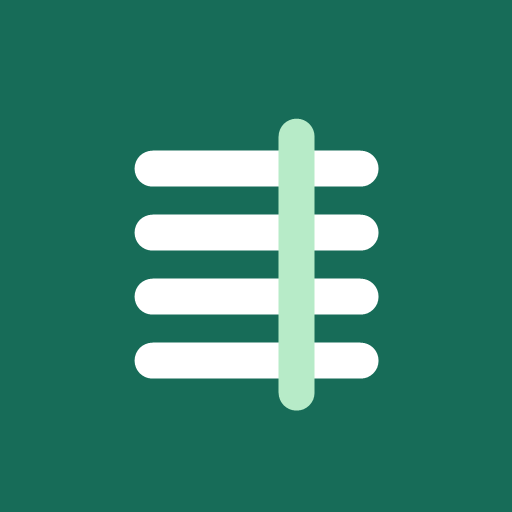
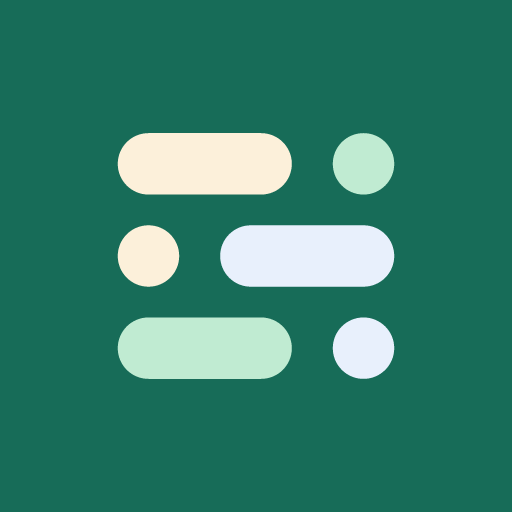
aaa
aaaaaa

Changed region(s): [[0.2188, 0.2188, 0.7812, 0.8125]]

diff --git a/src/app.js b/src/app.js
@@ -141,7 +141,7 @@ function shell() {
   const team = currentTeam(), member = currentMember(team);
   const nav = (mobile = false) => [['schedule','calendar','Schema'],...(hasAdminRole() ? [['admin','settings','Hantera']] : [])].map(([view,ico,text]) => `<button class="nav-item ${ui.view === view ? 'active' : ''}" data-action="view" data-view="${view}">${icon(ico)}<span>${text}</span>${!mobile && ui.view === view ? '<span class="nav-dot"></span>' : ''}</button>`).join('');
   $('#app').innerHTML = `<div class="app-shell">
-    <aside class="sidebar"><a class="brand" href="./" aria-label="RSSB startsida"><img class="brand-mark" src="./assets/favicon.svg?v=2" width="38" height="38" alt="">RSSB</a><div class="workspace-label">DIN ARBETSPLATS</div><nav aria-label="Huvudnavigation">${nav()}</nav>${workspace.mode === 'cloud' ? `<div class="sidebar-bottom"><button class="icon-btn" data-action="logout" aria-label="Logga ut">${icon('logout')}</button></div>` : ''}</aside>
+    <aside class="sidebar"><a class="brand" href="./" aria-label="Skooda startsida"><img class="brand-mark" src="./assets/favicon.svg?v=3" width="38" height="38" alt="">Skooda</a><div class="workspace-label">DIN ARBETSPLATS</div><nav aria-label="Huvudnavigation">${nav()}</nav>${workspace.mode === 'cloud' ? `<div class="sidebar-bottom"><button class="icon-btn" data-action="logout" aria-label="Logga ut">${icon('logout')}</button></div>` : ''}</aside>
     <div class="main-shell">
     <main id="content" tabindex="-1">${ui.view==='admin' ? adminView() : team ? scheduleView() : emptyWorkspace()}</main>
     <footer class="page-footer"><span></span><span></span></footer>
@@ -1349,7 +1349,7 @@ function deleteTeamModal() {
 
 function download(content,type,name) {const blob=new Blob([content],{type}),url=URL.createObjectURL(blob),a=document.createElement('a');a.href=url;a.download=name;a.click();setTimeout(()=>URL.revokeObjectURL(url),1000);}
 function renderLogin(error='') {
-  $('#app').innerHTML=`<main class="login-page"><a class="brand" href="./"><img class="brand-mark" src="./assets/favicon.svg?v=2" width="38" height="38" alt="">RSSB</a><section class="login-card"><h1>Ditt nästa pass<br>börjar här.</h1><p>Logga in för att se ditt schema och vilka du ska arbeta med.</p><form id="login-form"><label>E-post<input name="email" type="email" autocomplete="username" required placeholder="du@exempel.se"></label><label>Lösenord<input name="password" type="password" autocomplete="current-password" required minlength="6"></label><p class="form-error" role="alert">${esc(error)}</p><button class="primary-btn" type="submit">Logga in ${icon('arrow')}</button></form><small>Din administratör skapar ditt konto. Kontakta administratören om du behöver åtkomst eller ett nytt lösenord.</small></section><p class="login-caption">Ett tydligt schema. En lugnare vecka.</p></main>`;
+  $('#app').innerHTML=`<main class="login-page"><a class="brand" href="./"><img class="brand-mark" src="./assets/favicon.svg?v=3" width="38" height="38" alt="">Skooda</a><section class="login-card"><h1>Ditt nästa pass<br>börjar här.</h1><p>Logga in för att se ditt schema och vilka du ska arbeta med.</p><form id="login-form"><label>E-post<input name="email" type="email" autocomplete="username" required placeholder="du@exempel.se"></label><label>Lösenord<input name="password" type="password" autocomplete="current-password" required minlength="6"></label><p class="form-error" role="alert">${esc(error)}</p><button class="primary-btn" type="submit">Logga in ${icon('arrow')}</button></form><small>Din administratör skapar ditt konto. Kontakta administratören om du behöver åtkomst eller ett nytt lösenord.</small></section><p class="login-caption">Ett tydligt schema. En lugnare vecka.</p></main>`;
   $('#login-form').onsubmit=async e=>{e.preventDefault();e.submitter.disabled=true;const f=new FormData(e.target);try{workspace=await store.login(f.get('email'),f.get('password'));shell();}catch(err){renderLogin(err.message);}};
 }
 
@@ -1616,7 +1616,7 @@ async function handleAction(button) {
     case 'settings':if(admin())teamSettings();break;
     case 'delete-team':if(admin())deleteTeamModal();break;
     case 'edit-schedule':if(admin()){ui.editingSchedule=true;ui.view='schedule';shell();}break;
-    case 'export':if(admin())download(JSON.stringify(workspace.working,null,2),'application/json',`rssb-backup-${today()}.json`);break;
+    case 'export':if(admin())download(JSON.stringify(workspace.working,null,2),'application/json',`skooda-backup-${today()}.json`);break;
     case 'sync-project':
       if(admin()&&!ui.busy){ui.busy=true;try{workspace=await store.syncProject();shell();toast(workspace.fileSync.message,workspace.fileSync.state==='browser');}finally{ui.busy=false;}}
       break;
@@ -1745,7 +1745,7 @@ document.addEventListener('change',async e=>{
     else if(target.id==='jump-date'){if(target.value){ui.date=target.value;shell();scrollToDate(ui.date,true);}}
     else if(target.classList.contains('rotation-cell')&&admin()){const next=copy(),team=next.teams.find(t=>t.id===workingTeam().id);editingVersion(team).rotation[Number(target.dataset.row)][Number(target.dataset.day)]=target.value;await save(next,'Passet har uppdaterats');}
     else if(target.classList.contains('position-select')&&admin()){const next=copy(),team=next.teams.find(t=>t.id===workingTeam().id);if(Number(target.value))editingVersion(team).positions[target.dataset.member]=Number(target.value);else delete editingVersion(team).positions[target.dataset.member];await save(next,'Startpositionen har uppdaterats');}
-    else if(target.id==='import-file'&&admin()&&target.files[0]){let state;try{state=JSON.parse(await target.files[0].text());}catch{throw new Error('Filen kunde inte läsas. Välj en giltig säkerhetskopia från RSSB.');}const errors=model.validateState(state);if(errors.length)throw new Error(errors[0]);modal('Ersätta schemat?','Säkerhetskopian ersätter det aktuella schemat och publiceras direkt när du bekräftar.',`<p>${state.teams.length} team i säkerhetskopian.</p>`,async()=>{await save(state,'Säkerhetskopian har importerats');ui.teamId=undefined;editingVersionId=undefined;shell();},{submit:'Importera schema'});}
+    else if(target.id==='import-file'&&admin()&&target.files[0]){let state;try{state=JSON.parse(await target.files[0].text());}catch{throw new Error('Filen kunde inte läsas. Välj en giltig säkerhetskopia från Skooda.');}const errors=model.validateState(state);if(errors.length)throw new Error(errors[0]);modal('Ersätta schemat?','Säkerhetskopian ersätter det aktuella schemat och publiceras direkt när du bekräftar.',`<p>${state.teams.length} team i säkerhetskopian.</p>`,async()=>{await save(state,'Säkerhetskopian har importerats');ui.teamId=undefined;editingVersionId=undefined;shell();},{submit:'Importera schema'});}
   }catch(error){toast(error.message,true);shell();}
 });
 $('#modal').addEventListener('click',e=>{if(e.target===$('#modal')){const rect=e.target.getBoundingClientRect();if(e.clientX<rect.left||e.clientX>rect.right||e.clientY<rect.top||e.clientY>rect.bottom)requestModalClose();}});

diff --git a/src/install.js b/src/install.js
@@ -11,7 +11,7 @@ const ios = /iPad|iPhone|iPod/.test(navigator.userAgent) ||
   (navigator.platform === 'MacIntel' && navigator.maxTouchPoints > 1);
 const android = /Android/i.test(navigator.userAgent);
 const samsung = /SamsungBrowser/i.test(navigator.userAgent);
-const dismissalKey = `rssb-install-dismissed:${new URL('../', import.meta.url).pathname}`;
+const dismissalKey = `skooda-install-dismissed:${new URL('../', import.meta.url).pathname}`;
 const week = 7 * 24 * 60 * 60 * 1000;
 let pendingPrompt;
 let installed = false;
@@ -30,7 +30,7 @@ function rememberDismissal() {
 function update() {
   entry.hidden = standalone() || !mobile.matches || !(ios || android || pendingPrompt);
   document.querySelector('#install-open').textContent = installationRequested
-    ? 'Installationshjälp för RSSB' : 'Lägg till RSSB på hemskärmen';
+    ? 'Installationshjälp för Skooda' : 'Lägg till Skooda på hemskärmen';
   confirm.textContent = pendingPrompt ? 'Installera appen' : 'Visa hur du installerar';
   if (standalone() && dialog.open) dialog.close();
 }
@@ -52,7 +52,7 @@ function showRequested() {
   guide.hidden = true;
   confirm.hidden = true;
   help.hidden = false;
-  status.textContent = 'Installationen har begärts. Följ statusen i telefonens aviseringar. När den är klar hittar du RSSB på hemskärmen eller i applistan. Om ingen ikon dyker upp eller installationen misslyckas, tryck på Problem med installationen?';
+  status.textContent = 'Installationen har begärts. Följ statusen i telefonens aviseringar. När den är klar hittar du Skooda på hemskärmen eller i applistan. Om ingen ikon dyker upp eller installationen misslyckas, tryck på Problem med installationen?';
   dismiss.textContent = 'Fortsätt till schemat';
   update();
 }
@@ -60,12 +60,12 @@ function showGuide(troubleshooting = false) {
   guide.innerHTML = ios
     ? '<ol><li>Öppna sidan i <strong>Safari</strong> om den visas i en annan app.</li><li>Tryck på <strong>Dela</strong> (fyrkanten med pil uppåt). Den kan ligga under menyn med tre punkter.</li><li>Välj <strong>Lägg till på hemskärmen</strong>. Välj Visa mer om det behövs.</li><li>Låt <strong>Öppna som webbapp</strong> vara aktiverat om valet visas, och tryck på <strong>Lägg till</strong>.</li></ol>'
     : samsung
-      ? '<ol><li>I <strong>Samsung Internet</strong>: tryck på installationsikonen i adressfältet om den visas, eller öppna menyn <strong>☰</strong> och välj <strong>Lägg till sida i → Hemskärm</strong> om valet finns.</li><li>Bekräfta och följ statusen i telefonens aviseringar. Öppna sedan <strong>RSSB</strong> från hemskärmen eller applistan.</li><li>Om installationen misslyckas: kopiera sidans adress, öppna samma adress i <strong>Google Chrome</strong> och välj <strong>⋮ → Lägg till på startskärmen → Installera</strong>. Menyn kan också heta <strong>Installera appen</strong>.</li></ol>'
-      : '<ol><li>Öppna sidans adress direkt i <strong>Google Chrome</strong> om sidan visas inne i kamera- eller QR-appen.</li><li>Öppna webbläsarens meny <strong>⋮</strong>.</li><li>Välj <strong>Installera appen</strong> eller <strong>Lägg till på startskärmen</strong> och sedan Installera om valet visas.</li><li>Följ statusen i telefonens aviseringar. Öppna sedan <strong>RSSB</strong> från hemskärmen eller applistan.</li></ol>';
+      ? '<ol><li>I <strong>Samsung Internet</strong>: tryck på installationsikonen i adressfältet om den visas, eller öppna menyn <strong>☰</strong> och välj <strong>Lägg till sida i → Hemskärm</strong> om valet finns.</li><li>Bekräfta och följ statusen i telefonens aviseringar. Öppna sedan <strong>Skooda</strong> från hemskärmen eller applistan.</li><li>Om installationen misslyckas: kopiera sidans adress, öppna samma adress i <strong>Google Chrome</strong> och välj <strong>⋮ → Lägg till på startskärmen → Installera</strong>. Menyn kan också heta <strong>Installera appen</strong>.</li></ol>'
+      : '<ol><li>Öppna sidans adress direkt i <strong>Google Chrome</strong> om sidan visas inne i kamera- eller QR-appen.</li><li>Öppna webbläsarens meny <strong>⋮</strong>.</li><li>Välj <strong>Installera appen</strong> eller <strong>Lägg till på startskärmen</strong> och sedan Installera om valet visas.</li><li>Följ statusen i telefonens aviseringar. Öppna sedan <strong>Skooda</strong> från hemskärmen eller applistan.</li></ol>';
   if (android) {
     guide.innerHTML += '<p>Om installationen fortfarande misslyckas: uppdatera webbläsaren och försök igen, eller prova samma adress i en annan webbläsare, till exempel Chrome eller Samsung Internet. Schemat går att använda direkt på den här sidan under tiden.</p>';
   }
-  if (troubleshooting) status.textContent = 'Ingen RSSB-ikon eller ett meddelande om att installationen misslyckades? Prova stegen nedan.';
+  if (troubleshooting) status.textContent = 'Ingen Skooda-ikon eller ett meddelande om att installationen misslyckades? Prova stegen nedan.';
   guide.hidden = false;
   confirm.hidden = true;
   help.hidden = true;

diff --git a/index.html b/index.html
@@ -18,12 +18,12 @@
   <meta name="viewport" content="width=device-width, initial-scale=1, viewport-fit=cover">
   <meta name="theme-color" content="#176c58">
   <meta name="apple-mobile-web-app-capable" content="yes">
-  <meta name="apple-mobile-web-app-title" content="RSSB">
+  <meta name="apple-mobile-web-app-title" content="Skooda">
   <meta name="apple-mobile-web-app-status-bar-style" content="default">
   <meta name="description" content="Dina arbetspass, dina kollegor och nästa lediga dag. Ett mobilvänligt schema för skiftarbete.">
-  <title>RSSB</title>
-  <link rel="icon" href="./assets/favicon.svg?v=2" type="image/svg+xml">
-  <link rel="apple-touch-icon" sizes="180x180" href="./assets/app-icon-180.png?v=2">
+  <title>Skooda</title>
+  <link rel="icon" href="./assets/favicon.svg?v=3" type="image/svg+xml">
+  <link rel="apple-touch-icon" sizes="180x180" href="./assets/app-icon-180.png?v=3">
   <link rel="manifest" href="./manifest.webmanifest">
   <link rel="stylesheet" href="./styles.css">
 </head>
@@ -31,11 +31,11 @@
   <div id="app"><div class="loading">Öppnar ditt schema</div></div>
   <div id="toast" class="toast" role="status" aria-live="polite"></div>
   <dialog id="modal"></dialog>
-  <div class="install-entry" id="install-entry" hidden><button type="button" id="install-open">Lägg till RSSB på hemskärmen</button></div>
+  <div class="install-entry" id="install-entry" hidden><button type="button" id="install-open">Lägg till Skooda på hemskärmen</button></div>
   <dialog id="install-dialog" aria-labelledby="install-title" aria-describedby="install-description">
-    <img class="install-icon" src="./assets/app-icon-180.png?v=2" width="64" height="64" alt="">
+    <img class="install-icon" src="./assets/app-icon-180.png?v=3" width="64" height="64" alt="">
     <h2 id="install-title">Ditt schema, ett tryck bort</h2>
-    <p id="install-description">Lägg till RSSB på hemskärmen och öppna schemat som en app utan webbläsarens adressfält.</p>
+    <p id="install-description">Lägg till Skooda på hemskärmen och öppna schemat som en app utan webbläsarens adressfält.</p>
     <div id="install-guide" hidden></div>
     <p id="install-status" role="status" aria-live="polite"></p>
     <div class="install-actions">

diff --git a/tests/install.test.js b/tests/install.test.js
@@ -8,7 +8,7 @@ const source = (await readFile(new URL('../src/install.js', import.meta.url), 'u
 
 function setup({ ios = false, userAgent, standalone = false, dismissed = false, desktop = false, storageBlocked = false } = {}) {
   const listeners = {}, elements = {}, media = {}, timers = [];
-  const stored = new Map(dismissed ? [['rssb-install-dismissed:/tpcweb/', String(Date.now())]] : []);
+  const stored = new Map(dismissed ? [['skooda-install-dismissed:/tpcweb/', String(Date.now())]] : []);
   for (const id of ['install-dialog', 'install-entry', 'install-confirm', 'install-dismiss', 'install-guide', 'install-status', 'install-open', 'install-help']) {
     elements[`#${id}`] = {
       hidden: false, open: false, textContent: '', handlers: {},
@@ -166,7 +166,7 @@ test('iPhone shows manual instructions and can reopen after dismissal', async ()
   assert.match(el['#install-guide'].innerHTML, /Lägg till på hemskärmen/);
   assert.equal(el['#install-confirm'].hidden, true);
   el['#install-dismiss'].handlers.click();
-  assert.ok(stored.has('rssb-install-dismissed:/tpcweb/'));
+  assert.ok(stored.has('skooda-install-dismissed:/tpcweb/'));
   el['#install-open'].handlers.click();
   assert.equal(el['#install-dialog'].open, true);
 });

diff --git a/README.md b/README.md
@@ -98,7 +98,7 @@ Arbetsflödet publicerar bara webbplatsens filer. SQL-schema, tester, README och
 
 ### Om installationen på Android misslyckas
 
-Efter att installationen godkänts fortsätter webbläsaren att installera i bakgrunden. Följ statusen i telefonens aviseringar; ett godkännande betyder inte att installationen är klar. **Installationshjälp för RSSB** finns kvar längst ned på sidan även om Android senare meddelar att installationen misslyckades. Välj **Problem med installationen?** för instruktioner för den aktuella webbläsaren.
+Efter att installationen godkänts fortsätter webbläsaren att installera i bakgrunden. Följ statusen i telefonens aviseringar; ett godkännande betyder inte att installationen är klar. **Installationshjälp för Skooda** finns kvar längst ned på sidan även om Android senare meddelar att installationen misslyckades. Välj **Problem med installationen?** för instruktioner för den aktuella webbläsaren.
 
 Om QR-koden öppnat sidan inne i en annan app, öppna samma adress direkt i Google Chrome. Välj **⋮ → Lägg till på startskärmen → Installera**, eller **Installera appen** om menyn heter så. Om Samsung Internet misslyckas, kopiera sidans adress och prova den i Chrome. Uppdatera webbläsaren om problemet kvarstår. Schemat kan användas på webbplatsen under tiden. Webbplatsen får inget tillförlitligt besked om Androids senare installationsfel.
 
